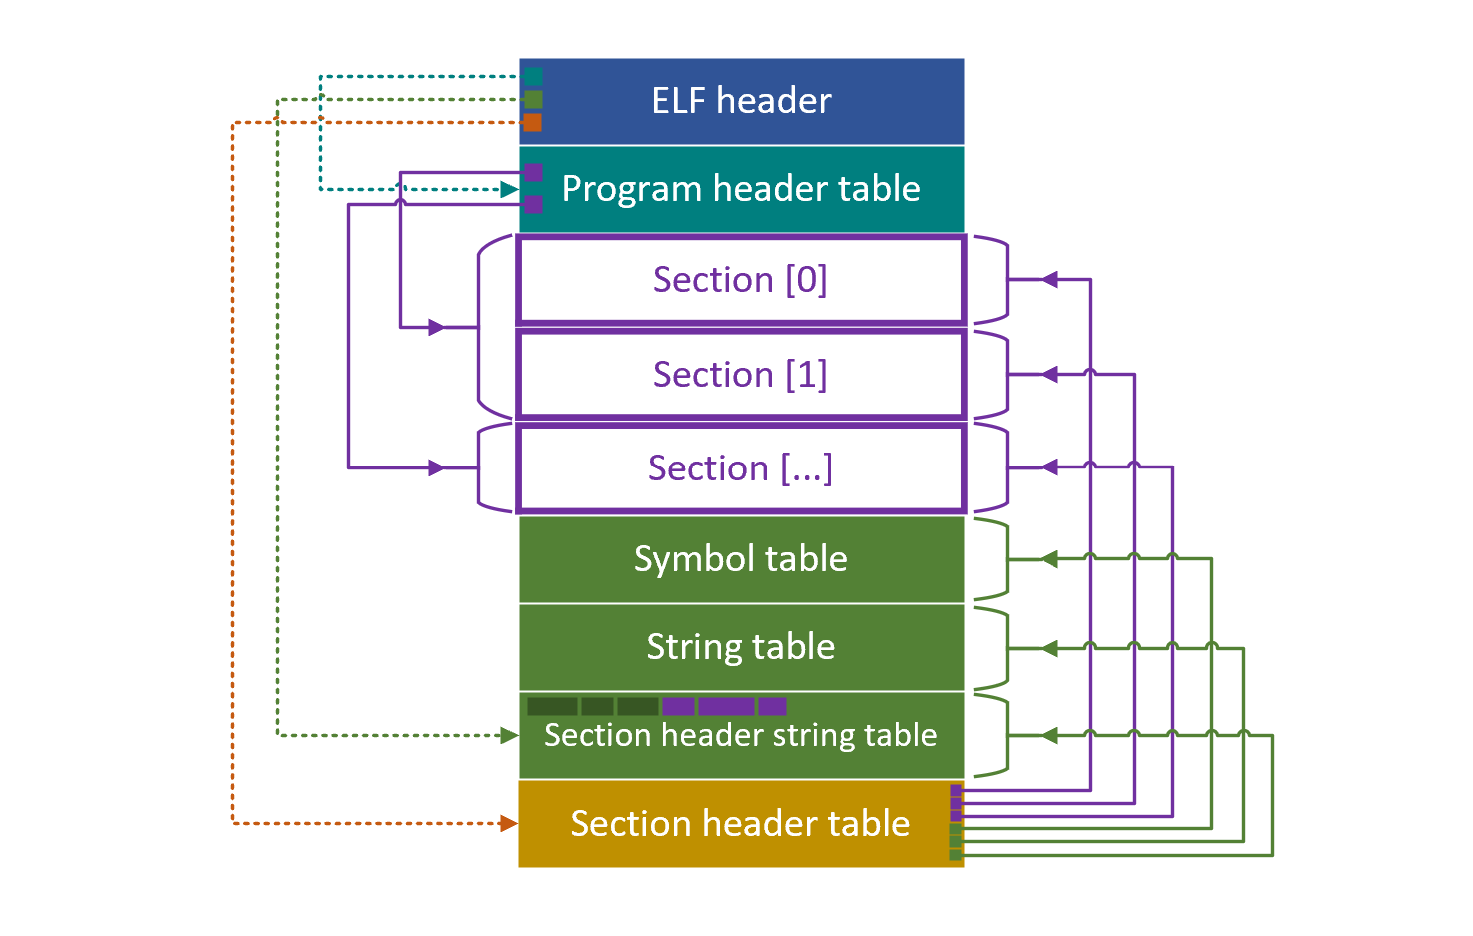
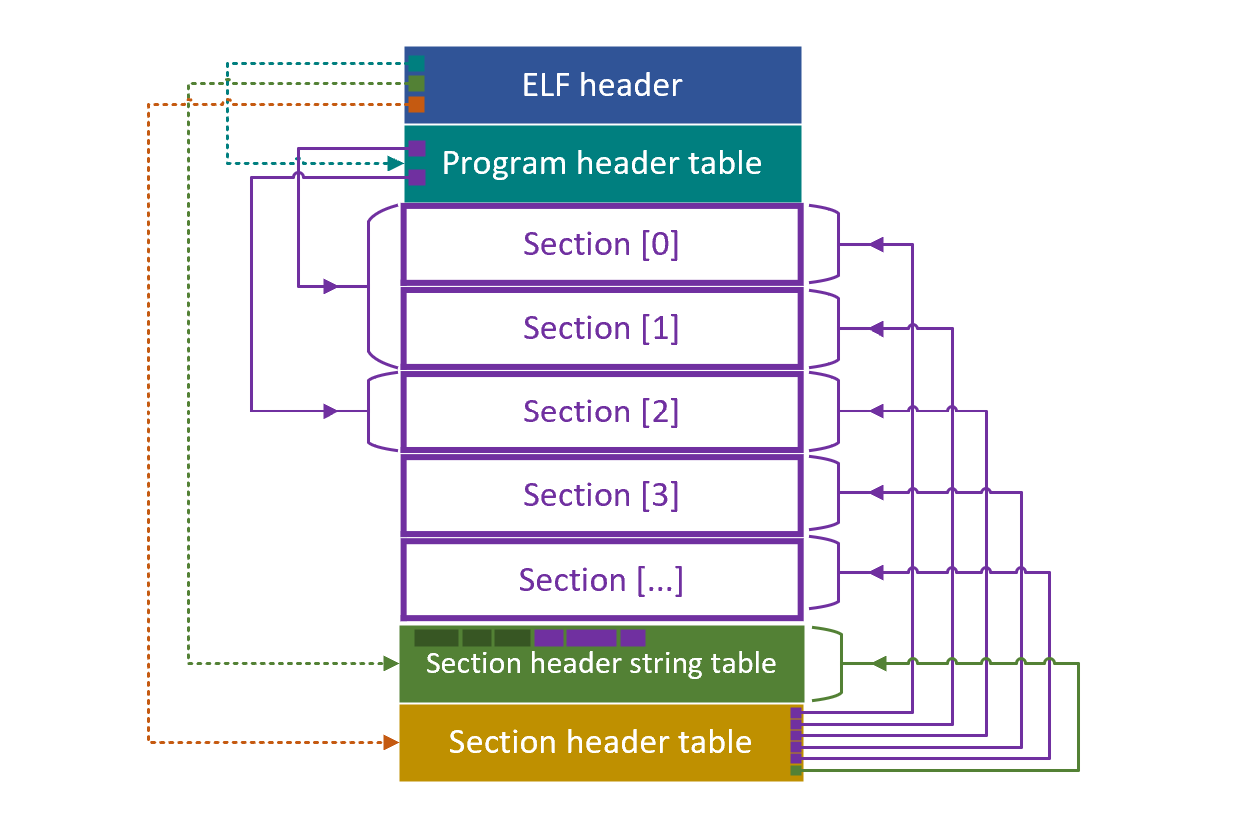
GitBook: [master] 17 pages and 3 assets modified

Changed region(s): [[0.1241, 0.0302, 0.8687, 0.9662]]

diff --git a/group-2-elf-signer/chapter-5-elf-signature-injection.md b/group-2-elf-signer/chapter-5-elf-signature-injection.md
@@ -4,92 +4,80 @@ description: >-
   上也可以正确运行。
 ---
 
-# Chapter 5 - ELF 签名注入
+# Chapter 5 - 将签名数据注入 ELF 文件
 
 ## 5.1 签名数据存放位置
 
 要将签名数据附在原有的 ELF 文件中，且不破坏 [ELF 的结构](../group-1-kernel-signature-verification/chapter-2-elf-format-analysis.md)，使其能够在没有签名验证机制的 OS 上也能运行，有两种可能的方式：
 
-* 在 ELF 文件的尾部追加签名
-* 在 ELF 文件的中间以符合 ELF 规范的方式添加若干个包含签名数据的 section
+* 直接在 ELF 文件的尾部附加签名
+* 以符合 ELF 规范的方式以 ELF section 为单位添加签名数据
 
 在尾部追加签名的方式比较简单，但从文件整体视角来看，该文件已经不是一个符合 ELF 格式的文件了。如果我们需要对 ELF 文件的多个 section 进行签名，在文件末尾追加的方法将具有较差的可扩展性和灵活性。此外，将无法通过 `readelf` 或 `objdump` 等工具读取签名数据。
 
-在 ELF 文件中间添加数据的方法稍微复杂一些，因为其中涉及到对 ELF 的文件格式进行解析。另外，在 ELF 文件中添加若干新的 section，可能会涉及到对 ELF 文件中其它数据的修改。但是，通过这种方法，我们可以在 ELF 文件中添加任意多个 section，并可以在 ELF 的 section header table 结构中记录这些 section 的元信息。这样方便内核从签名后的 ELF 文件中快速获取有效的签名数据。
+以符合 ELF 格式的方式添加数据稍微复杂一些，因为其中涉及到对 ELF 的文件格式进行解析。另外，在 ELF 文件中添加若干新的 section，可能会涉及到对 ELF 文件中其它结构的修改。但这种方法使我们可以在 ELF 文件中添加任意多个 section，并可以在 ELF 的 section header table 结构中记录这些 section 的元信息。这样方便内核从签名后的 ELF 文件中快速获取有效的签名数据。
 
 ## 5.2 将签名数据 section 注入 ELF 文件
 
-在 ELF 文件中，`.symtab` `.strtab` `.shstrtab` 三个 section 较为特殊。根据惯例，通常将这三个 section 布局为 ELF 文件的最后三个 section。如果我们想要在 ELF 文件中插入一个新的 section 时，应当把新插入的 section 恰好放置在这三个特殊 section 之前，如下图红色部分所示。这样做有两点好处：
+在向 ELF 文件插入数据时，我们尽可能地在每个 ELF 结构的尾部插入数据。在尾部插入能够最大程度地避免破坏已有的 ELF 结构之间的引用关系。要将数据注入到 ELF 文件中，并维持 ELF 文件的原有格式，需要修改如下几处结构：
 
-* 保持了 ELF 文件布局的惯例
-* 避免破坏 program header table 与其它 section 之间的引用关系
+1. 插入一个包含签名数据的新 section 数据区
+2. Section header table 中应多出一个新的 entry 来描述签名数据在文件中的偏移和长度
+3. 将新 section 的名称字符串添加到 `.shstrtab` 中，`.shstrtab` 的长度需要被修改
+4. 数据插入位置之后的所有 section 的偏移地址都需要被后移修正
+5. 在 ELF header 中更新 section header table 的偏移位置和元素数量
 
-![&#x5728; ELF &#x6587;&#x4EF6;&#x4E2D;&#x6CE8;&#x5165;&#x4E00;&#x4E2A;&#x65B0;&#x7684; section](../.gitbook/assets/elf-new-section.png)
+另外，还需要保证数据插入后，所有 section 的地址对齐要求得到满足，section header table 的起始地址也需要对齐 8 字节地址，以充分利用总线宽度提升性能。
 
-基于这种方案，注入一个新的 section 涉及到对 ELF 文件多个部分的修改：
+由于 ELF 文件的布局方式因编译器而异，数据插入后，ELF 文件可能的布局如下图所示。其中，红色部分为新插入的数字签名信息及其相关的描述信息：
 
-* ELF header
-  * Section header table 在文件中的偏移会被插入的内容向后挤
-  * Section header table 中的 entry 数量将会增加
-  * 新的 section 被插入在三个特殊 section 的前面，导致 ELF header 中指向 section header string table section 的索引增加
-* Section header table
-  * 新增一个 entry 指明新 section 在文件中的位置、长度、类型等信息
-  * 三个特殊 section 由于后移，entry 中的位置信息、链接信息、长度信息等发生更新
-* Section header string table section
-  * 新 section 的名称字符串插入到这个 section 中，引发该 section 的长度发生变化
-* Section 数据区域
-  * 签名数据作为新的 section 被添加
+![&#x6CE8;&#x5165;&#x7B7E;&#x540D;&#x540E;&#x7684; ELF &#x6587;&#x4EF6;](../.gitbook/assets/elf-new-section.png)
 
-{% hint style="info" %}
-一个 ELF 标准中没有规定但是业界实现中普遍存在的细节：section header table 以及 `.symtab` `.strtab` `.shstrtab` 这三个特殊 section 在文件中的偏移总是对齐 8 字节地址，以充分利用总线宽度提升性能。在签名程序的实现中，我们也考虑到了这一点。
-{% endhint %}
-
-在签名程序的具体实现中，我们将 ELF 文件中的下列部分载入内存：
+在签名程序的具体实现中，我们将 ELF 文件中的下述部分载入内存。这两部分的内存副本将用于记录和修改各个 ELF 结构在文件中的偏移变化和长度变化，并最终被写回 ELF 文件，覆盖原有内容：
 
 * ELF header
 * Section header table
-* Section header string table
 
-我们为 section header table 多分配了一块内存，并将三个特殊 section 在表中的 entry 向后移动，同时更新这三个 entry 中需要被修改的信息。然后我们在空出的 entry 中为新增的 section 设置信息。
-
-在这一过程进行的同时，顺带计算在文件中需要注入字节的偏移位置与字节数。
+我们为 section header table 多分配了一段 section header entry 的内存，并在最后一个空出的 entry 中为新增的 section 设置信息。程序会将签名数据插入到从文件末尾开始的第一个能被 8 整除的地址，作为新增 section 的数据。这个 **地址** 以及 **签名数据的长度** 被记录到最后一个 section header entry 对应的结构体中。在这一过程进行的同时，程序顺带计算在文件中需要插入的字节偏移位置与字节数量。
 
 {% hint style="info" %}
-这里阐明文章中 **注入** 的概念。对于普通的文件写入，可被理解为从文件中的某个偏移位置开始 **覆盖** 文件中的原有内容，\(如果覆盖内容没有超出文件原有长度\) 将不会改变文件的长度。而注入特指在文件中插入内容，**将文件中插入位置之后的原有内容向后挤**，从而一定会引发文件长度的变化。
+这里阐明文章中 **插入** 和 **覆盖** 的概念。对于普通的文件写入，可被理解为从文件中的某个偏移位置开始 **覆盖** 文件中的原有内容，\(如果覆盖内容没有超出文件原有长度\) 将不会改变文件的长度。而插入特指 **将插入位置之后的原有内容向后挤**，从而一定会引发文件长度的变化。
 
-对于文件中位置、长度固定，而内容需要被修改的部分，使用文件写入 \(比如 ELF header\)；对于文件中必须新增的数据，使用数据注入 \(比如签名数据\)。
+对于文件中位置、长度固定，而内容需要被修改的部分，使用覆盖操作 \(比如 ELF header\)；对于文件中必须新增的数据，使用插入操作 \(比如新增 section 的字符串名\)。
 {% endhint %}
 
-将被注入文件的字节由三部分组成：
+接下来将被插入文件的数据由两部分组成：
 
-* 签名数据
-* 签名 section 的名称字符串
-* 补齐 8 字节地址的无用字符
+* 签名 section 的名称字符串，以及用于补齐 8 字节地址的无用字符 \(因为 `.shstrtab` 长度任意\)
+* Section header table 内存副本中最后一个新增的 entry
 
-基于上述工作，签名程序能够确定 ELF header 中记录的 section header table 偏移量的最终值。最终，将内存中修改后的 ELF header 与 section header table 覆盖原文件中的相同部分；然后，在计算好的文件偏移处注入准备好的数据。
+基于上述工作，签名程序能够确定 ELF header 中记录的 section header table 偏移量 \(`e_shoff`\) 和 section header 数量 \(`e_shnum`\) 的最终值。另外，通过遍历 section header table，程序还可以确定在 `.shstrtab` 中插入新 section 名称字符串的位置，以及用于使插入位置之后所有 ELF 结构的地址对齐的填充字节个数。
+
+最终，程序将内存中的 ELF header 副本与 section header table 副本 \(不包含新增 entry\) 中的偏移量修正后，覆盖原文件中的相同部分；然后，在计算好的文件偏移处插入准备好的数据。
 
 {% hint style="info" %}
-在注入数据时，应当先处理在文件中注入位置靠后的数据。如果首先处理在文件中注入位置靠前的数据，将会影响到之后注入的数据在文件中的注入位置。
+在插入数据时，应当先处理在文件中插入位置靠后的数据。如果先处理在文件中插入位置靠前的数据，将会影响到之后插入的数据在文件中的插入偏移位置。也就是说，插入的顺序与具体的 ELF 结构无关，只和 ELF 结构在文件中的偏移位置有关，插入位置靠后的数据先被插入。
 {% endhint %}
 
 签名程序会在被签名 section 名称的基础上加上 `_sig` 后缀，成为对应的签名数据 section。如，对于保存 ELF 程序指令的 `.text` section，签名程序会将签名数据作为一个名为 `.text_sig` 的 section 附加到 ELF 文件中。如果在解析 ELF section 的过程中发现已经存在名称以 `_sig` 为后缀的 section，则签名程序会中止退出，以防止重复签名。
 
-在签名期间，签名程序会产生一些临时文件，用于保存被签名的若干个 section 对应的签名数据；在签名完成之后，这些临时文件将会被清除。
+```bash
+$ readelf -a sign-target
+...
+Section Headers:
+  [Nr] Name              Type             Address           Offset
+       Size              EntSize          Flags  Link  Info  Align
+...
+  [29] .text_sig         PROGBITS         0000000000000000  000020c0
+       00000000000001d1  0000000000000000   O       0     0     8
+...
+```
+
+在签名期间，签名程序会产生一些临时文件，用于保存被签名的若干个 section 的数字签名数据；在签名完成之后，这些临时文件将会被清除。
 
 签名程序可以指定一个被签名文件名，以及一个可选的输出文件名。如果不指定输出文件名，对于一个名为 `elf`的 ELF 文件，在签名成功后，签名程序会保留未被签名的旧版本 ELF 文件 `elf.old` 作为备份，而注入签名后的新 ELF 文件将会被命名为原先的 `elf`。具体的使用方法参见 [后续](../group-3-usage/chapter-9-elf-sign.md#82-qian-ming-cheng-xu-de-shi-yong-fang-shi)。
 
-## 5.3 兼容模式
-
-对于一些 ELF 文件，比如 [GNU Core-utils](https://www.gnu.org/software/coreutils/)，其布局与较新 GCC 编译器编译出的 ELF 文件存在布局上的差异：
-
-* 不包含 `symbol table` 和 `string table` 两个 section
-* 只包含 `section header string table`。
-
-在签名程序中，我们提供了一个 `-c` 的选项，可以以 **兼容模式** 对 ELF 文件进行签名。在兼容模式下，签名数据 section 将会被加入到 `section header string table` 的前一个 section 位置：
-
-![&#x517C;&#x5BB9;&#x6A21;&#x5F0F;&#x7B7E;&#x540D;&#x540E;&#x7684; ELF &#x6587;&#x4EF6;&#x5E03;&#x5C40;](../.gitbook/assets/elf-new-section-compact.png)
-
-## 5.4 参考资料
+## 5.3 参考资料
 
 [A tutorial introduction to _libelf_](https://sourceforge.net/projects/elftoolchain/files/Documentation/libelf-by-example/20120308/libelf-by-example.pdf/download)\_\_
 

diff --git a/group-3-usage/chapter-9-elf-sign.md b/group-3-usage/chapter-9-elf-sign.md
@@ -4,7 +4,7 @@ description: 使用 ELF 文件签名程序，对一个未被签名的 ELF 文件
 
 # Chapter 9 - ELF 签名
 
-## 8.1 ELF 文件签名程序的构建
+## 9.1 ELF 文件签名程序的构建
 
 首先，需要安装签名程序依赖的库。基于 Debian 系列的 Linux 发行版可以使用 **APT** \(Advanced Package Tool\) 工具轻易安装这些依赖：
 
@@ -23,7 +23,7 @@ cc -o sign-target sign_target.c
  --- Little endian.
  --- 29 sections detected.
  --- Section 0014 [.text] detected.
- --- Length of section [.text]: 10192
+ --- Length of section [.text]: 8752
  --- Signature size of [.text]: 465
  --- Writing signature to file: .text_sig
  --- Removing temp signature file: .text_sig
@@ -32,7 +32,7 @@ cc -o sign-target sign_target.c
 {% hint style="info" %}
 由于自行构建得到的 `elf-sign` 也是一个 ELF 程序，因此，在它可以用于对其它 ELF 文件进行签名之前，其自身必须先被签名，否则内核将拒绝执行这个 ELF 程序。在仓库中，我们提供了一个已经被测试密钥 \(`certs/kernel_key.pem`\) 签名后的签名程序 `elf-sign.signed`，并用这个签名程序对 `make` 命令构建的 `elf-sign` 进行签名。
 
-如果您自行生成了私钥与公钥证书，那么您可能需要在一个 **没有 ELF 签名验证机制** 且 **确认安全** 的内核上，对自行构建得到的 `elf-sign` 进行自签名。然后，这个被签名后的签名程序可以使用在具有 ELF 签名验证机制的内核上。
+如果您自行生成了私钥与公钥证书，那么您可能需要在一个 **未挂载 ELF 签名验证模块** 且 **确认安全** 的内核上，对自行构建得到的 `elf-sign` 进行自签名。然后，这个被签名后的签名程序可以使用在挂载 ELF 签名验证模块的内核上。
 {% endhint %}
 
 如果一切正常，通过 `readelf` 或 `objdump` 命令，可以在构建成功的 `elf-sign` 中看到名为 `.text_sig` 的 section；而签名前被备份的原始版本 ELF 文件 `elf-sign.old` 中则没有这个 section：
@@ -40,8 +40,8 @@ cc -o sign-target sign_target.c
 ```bash
 $ readelf -a elf-sign
 ...
-  [26] .text_sig         PROGBITS         0000000000000000  00004039
-       00000000000001d1  0000000000000000           0     0     1
+  [29] .text_sig         PROGBITS         0000000000000000  00006cb0
+       00000000000001d1  0000000000000000   O       0     0     8
 ...
 ```
 
@@ -82,18 +82,17 @@ Contents of section .text_sig:
  ...
 ```
 
-## 8.2 签名程序的使用方式
+## 9.2 签名程序的使用方式
 
 ```bash
 $ ./elf-sign
-Usage: elf-sign [-ch] <hash-algo> <key> <x509> <elf-file> [<dest-file>]
-  -c,         compact signing mode for old ELF binary
+Usage: elf-sign [-h] <hash-algo> <key> <x509> <elf-file> [<dest-file>]
   -h,         display the help and exit
 
 Sign the <elf-file> to an optional <dest-file> with
 private key in <key> and public key certificate in <x509>
-and the digest algorithm specified by <hash-algo>. If no
-<dest-file> is specified, the <elf-file> will be backup to
+and the digest algorithm specified by <hash-algo>. If no 
+<dest-file> is specified, the <elf-file> will be backup to 
 <elf-file>.old, and the original <elf-file> will be signed.
 ```
 
@@ -121,23 +120,23 @@ $ ./elf-sign sha256 \
  --- Removing temp signature file: .text_sig
 ```
 
-对于布局中只有 section header string table 而没有 symbol table 和 string table 的 ELF 程序，使用 [兼容模式选项](../group-2-elf-signer/chapter-5-elf-signature-injection.md#53-jian-rong-mo-shi) `-c` 来进行签名：
+将一个已有的 ELF 文件 \(`/bin/ls`\) 签名为一个自定义名称的 ELF 文件 \(`myls`\)：
 
 ```bash
-$ ./elf-sign -c sha256 \
+$ ./elf-sign sha256 \
     certs/kernel_key.pem certs/kernel_key.pem \
-    /bin/cat mycat
+    /bin/ls myls
  --- 64-bit ELF file, version 1 (CURRENT).
  --- Little endian.
- --- 30 sections detected.
+ --- 28 sections detected.
  --- Section 0014 [.text] detected.
- --- Length of section [.text]: 16569
+ --- Length of section [.text]: 74969
  --- Signature size of [.text]: 465
  --- Writing signature to file: .text_sig
  --- Removing temp signature file: .text_sig
 ```
 
-## 8.3 参考资料
+## 9.3 参考资料
 
 [Manually signing modules](https://www.kernel.org/doc/html/latest/admin-guide/module-signing.html#manually-signing-modules)
 

diff --git a/hou-ji/hou-ji.md b/hou-ji/hou-ji.md
@@ -1,0 +1,16 @@
+# 后记
+
+本项目开始于 2020 年 4 月。因 [COVID-19](https://en.wikipedia.org/wiki/Coronavirus_disease_2019) 疫情，整个春天基本上除了蹲在家里哪儿也去不了。蹲在家里并不意味着没有事情干，从二月上旬开始，我已经在家中恢复了科研状态，另也有一些项目在忙。但是看到 [第九届“中国软件杯”](http://www.cnsoftbei.com/) 的这道题目后，我们开了一个小时的钉钉会议，决定要把它做出来。
+
+在过去的一年里，我已经阅读了不少 Linux 内核代码。心里一直有个小小的愿望：读了这么些代码，也得写一点内核代码了。通过这个项目，算是小小地满足了心里的那点 _意难平_。本科一年级以后，我已经很久没有写过这么多 C 代码了。Happy kernel hacking! 👨💻 
+
+这个项目只是窥探了 Linux 内核中极其微小的一部分，功能也不算很底层很核心，其规模也就与一个简单的设备驱动程序相当。[2020 年初](https://www.linux.com/news/linux-in-2020-27-8-million-lines-of-code-in-the-kernel-1-3-million-in-systemd/)，Linux 内核的代码量已经达到了 2780 万行。近年来，西方发达国家亡我之心不死，前有中兴芯片事件，后有华为被禁用 Android 的 Google 服务，近日又有中国高校和科研单位被禁用 MATLAB。可以说，现在中国的科技环境很严峻。无论是国产芯片，还是国产操作系统、国产基础软件，我们都还有很长很长的路要走。
+
+希望国家也好、企业也好、个人也好，能有越来越多的人关注这些相对冷门的领域。抢到 AI、5G、物联网的主动权固然很重要，但 **自主可控的核心** 才是我国免遭别国卡脖子的底牌。
+
+
+
+张靖棠 \([@mrdrivingduck](https://github.com/mrdrivingduck)\)
+
+2020.6.20 与南京
+

diff --git a/group-4-evaluation-and-testing/chapter-11-elf-signature-overhead-evaluation.md b/group-4-evaluation-and-testing/chapter-11-elf-signature-overhead-evaluation.md
@@ -4,7 +4,7 @@ description: 评估在 ELF 文件中附加签名后所带来的各类开销。
 
 # Chapter 11 - ELF 签名开销评估
 
-## 10.1 开销分析
+## 11.1 开销分析
 
 ELF 签名程序所带来的开销主要来自于：
 
@@ -12,17 +12,15 @@ ELF 签名程序所带来的开销主要来自于：
 * 对装入内存的 section 计算摘要，并用公私钥生成数字签名
 * 将数字签名作为新的 section 加入 ELF 文件中
 
-## 10.2 时间开销
+## 11.2 时间开销
 
-时间开销与 ELF 文件中需要被签名的 section 个数呈正相关。目前版本中，我们仅对 `.text` 进行验证。但 ELF 数字签名验证模块是以验证多个 section 为目标设计的。
+时间开销与 ELF 文件中需要被签名的 section 个数呈正相关。目前版本中，我们仅对 `.text` 进行签名和验证。但 ELF 数字签名验证模块与 ELF 数字签名程序都是以验证或签名多个 section 为目标设计的。
 
-{% hint style="info" %}
-在对每个被签名的 section 生成数字签名时，由于针对 section 计算出的摘要是一个定长的序列，因此用于计算数字签名的时间开销可以认为是固定的。
-{% endhint %}
+对于单个 section 的签名来说，时间开销与 section 的长度呈正相关。越长的 section 需要越多的时间将数据载入内存并计算摘要。由于对 section 计算出的摘要是一个定长的序列，因此通过摘要计算数字签名的时间开销可被认为是固定的。
 
 由于计算出的 section 摘要长度固定，并且长度较短，因此 ELF 文件的签名工作基本在每一台机器上都能瞬时完成。
 
-## 10.3 空间开销
+## 11.3 空间开销
 
 这里主要关注签名数据作为新的 section 被加入原 ELF 文件后，会使 ELF 文件大小增加多少。
 

diff --git a/SUMMARY.md b/SUMMARY.md
@@ -14,7 +14,7 @@
 ## 第二部分 - ELF 文件签名程序 <a id="group-2-elf-signer"></a>
 
 * [Chapter 4 - 信息摘要与 PKCS \#7 签名](group-2-elf-signer/chapter-4-openssl.md)
-* [Chapter 5 - ELF 签名注入](group-2-elf-signer/chapter-5-elf-signature-injection.md)
+* [Chapter 5 - 将签名数据注入 ELF 文件](group-2-elf-signer/chapter-5-elf-signature-injection.md)
 
 ## 第三部分 - 使用方式 <a id="group-3-usage"></a>
 
@@ -27,4 +27,8 @@
 
 * [Chapter 10 - 内核签名验证开销评估](group-4-evaluation-and-testing/chapter-10-kernel-performance-overhead-evaluation.md)
 * [Chapter 11 - ELF 签名开销评估](group-4-evaluation-and-testing/chapter-11-elf-signature-overhead-evaluation.md)
+
+## 后记
+
+* [后记](hou-ji/hou-ji.md)
 

diff --git a/group-3-usage/chapter-8-module-loading.md b/group-3-usage/chapter-8-module-loading.md
@@ -64,7 +64,7 @@ binfmt_elf_signature_verification    16384  0
 $ sudo rmmod binfmt_elf_signature_verification
 ```
 
-## 参考资料
+## 8.3 参考资料
 
 [Stackoverflow - How to compile a kernel module](https://stackoverflow.com/questions/37507320/how-to-compile-a-kernel-module)
 
